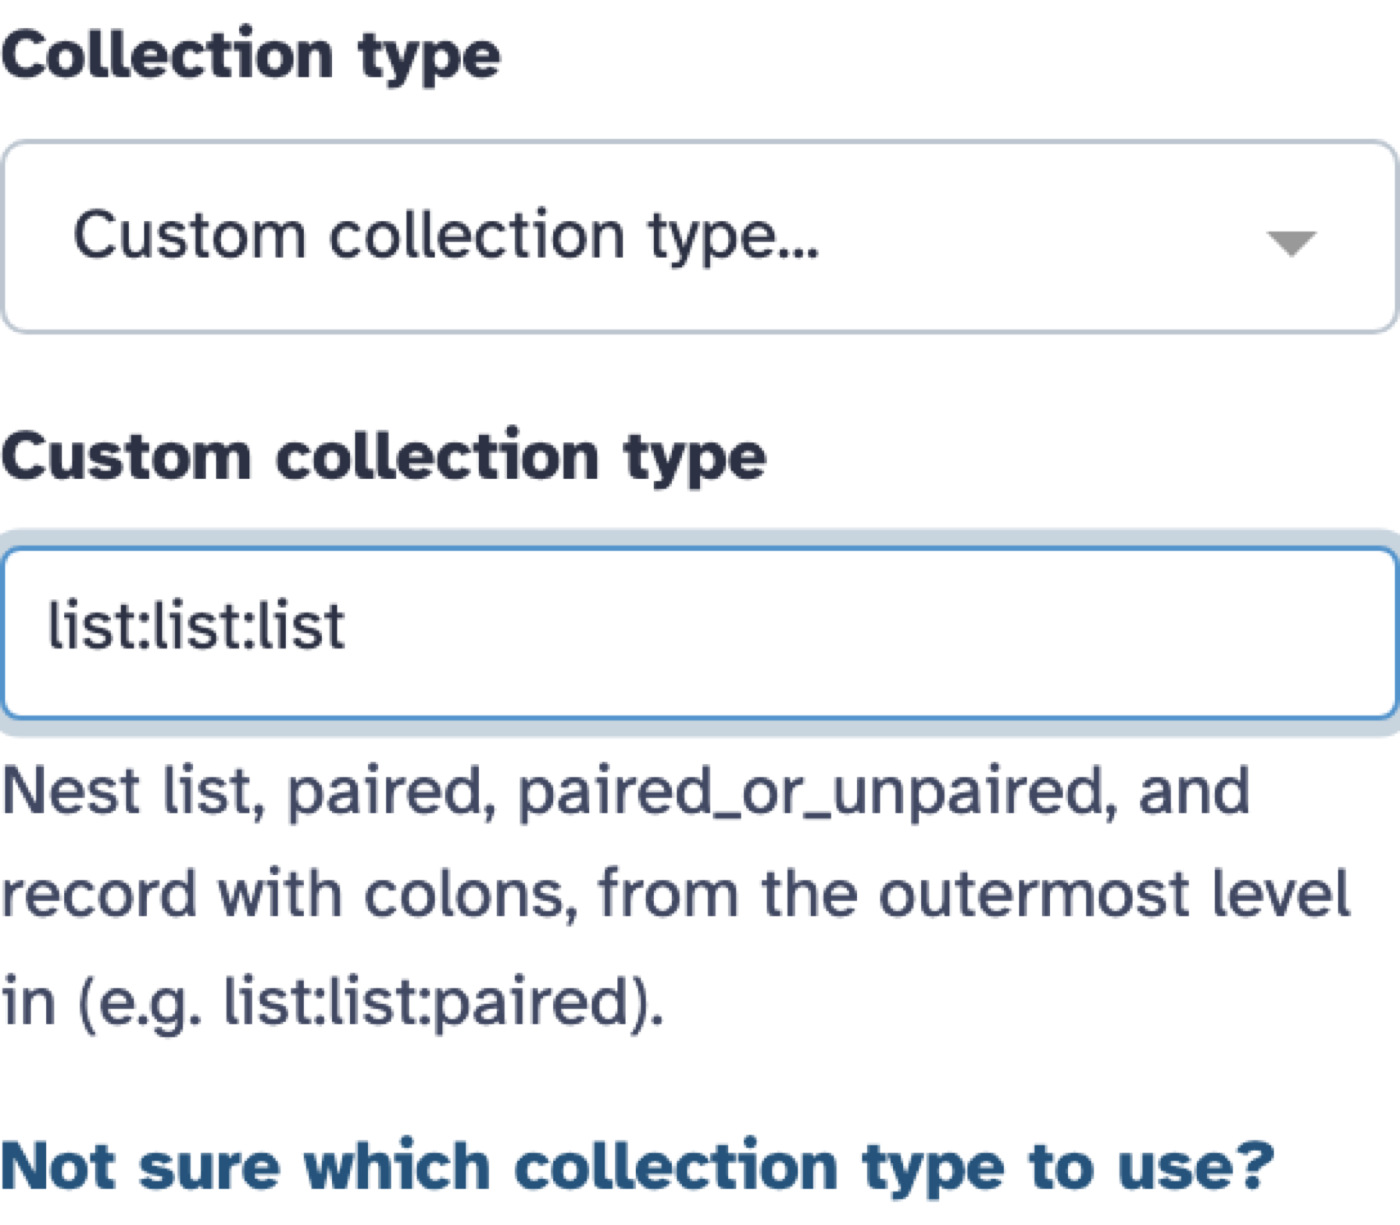
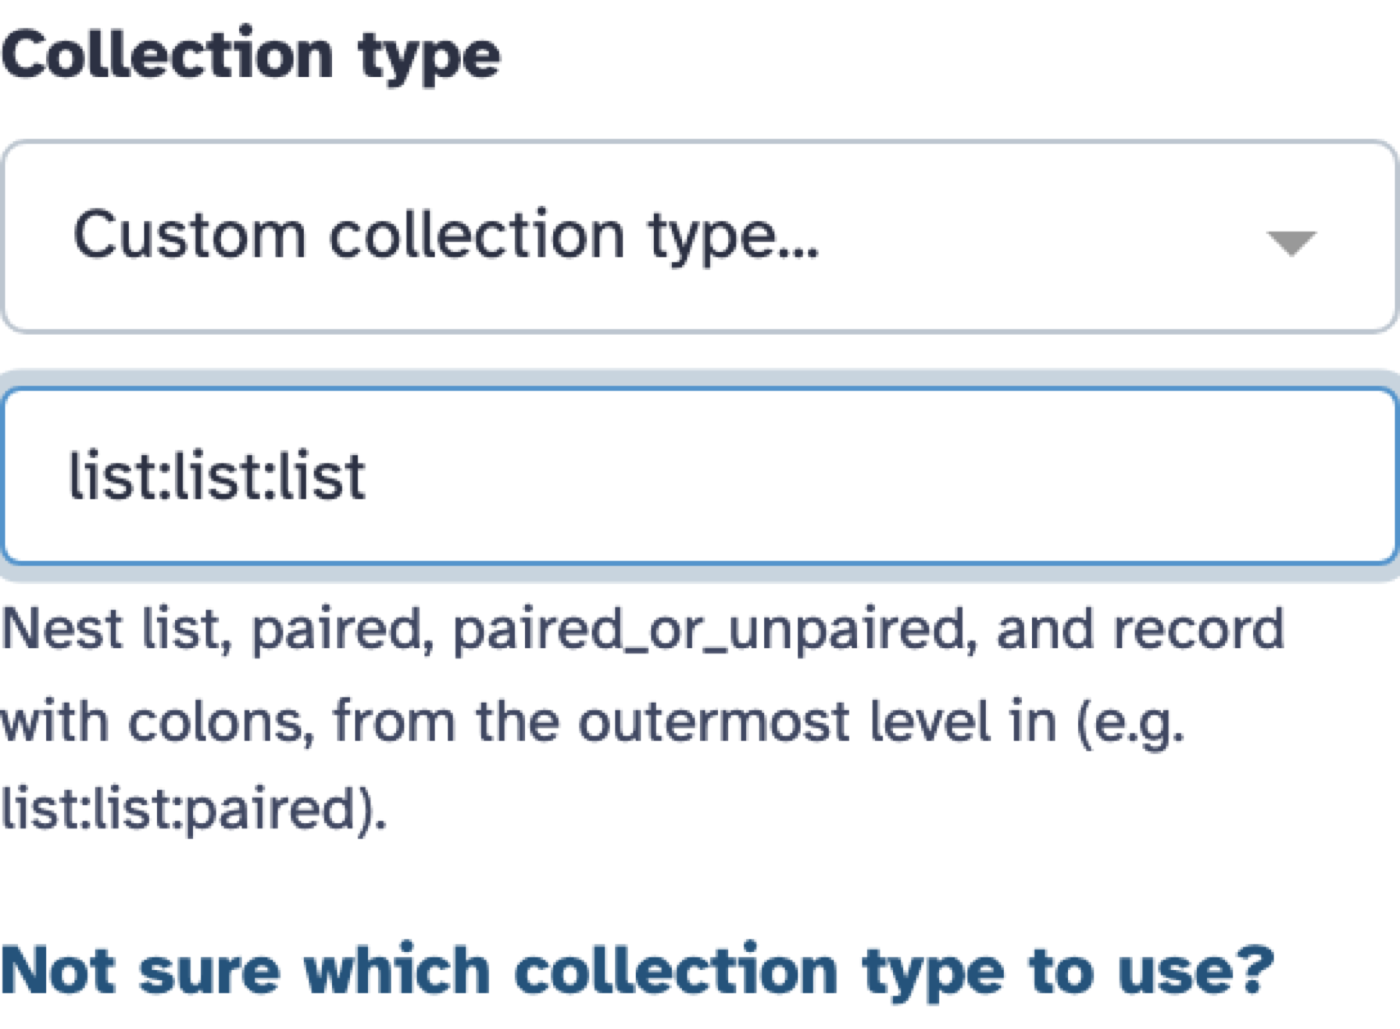
gx_branches: issue_19049_collection_type_picker adds FormSelectOrText (1c87e5c1ebd), ready for final review

Changed region(s): [[0.0, 0.0, 1.0, 0.8397], [0.0, 0.9018, 0.9214, 0.9951]]

diff --git a/vault/agents/gx_branches/branches/issue_19049_collection_type_picker/pr_description.md b/vault/agents/gx_branches/branches/issue_19049_collection_type_picker/pr_description.md
@@ -1,4 +1,4 @@
-Implement 🎯 #19049 - pick a workflow collection input's type from a described select instead of a free-text field.
+Implement 🎯 #19049 - pick a workflow collection input's type from a described select instead of a free-text field, built on a new reusable select-or-text form element.
 
 On `dev` the editor asks for a collection input's type in a text box. Its suggestions are a `datalist`, so they only show up once you start typing something that matches, and nothing on the form says what `list:paired_or_unpaired` or `sample_sheet:record` means or which one fits your data. This branch makes it a select of the known types, with each type's description under it, a custom mode for any other type, and a "Not sure which collection type to use?" dialog that explains them all.
 
@@ -14,38 +14,47 @@ On `dev` the editor asks for a collection input's type in a text box. Its sugges
 | --- | --- |
 | ![An invalid custom type shows an error](screenshots/06_custom_invalid.png) | ![A valid custom type](screenshots/07_custom_valid.png) |
 
-***This is for workflow authors editing a collection input in the editor. Tool XML, the run form, the collection builders and the upload wizards are untouched.***
+The select and custom mode are a new form element, `FormSelectOrText`: the "variant of a GFormInput that can fluidly switch between a text input field and a dropdown selector" suggested in the issue thread. It lists known values in a select and offers an "Other..." entry that switches to a validated text field. It emits only valid values and reports errors through `FormElement`'s alert, and options can carry help text that shows while they're selected. It's available as `FormElement` type `select_or_text`. To prove it's general, the Tool Shed install dialog's "Target Section" field moves onto it too. That field was a text box with a `datalist` of existing sections: "choose an existing tool panel section or create a new section".
+
+***Two forms change: the workflow editor's collection input, and the Tool Shed install dialog's "Target Section". Tool XML, tool forms, the run form, the collection builders and the upload wizards are untouched.***
 
 ***Existing workflows load and run as before, and what a collection input accepts is unchanged. Any type the old field took can still be entered in custom mode, and a saved type the select doesn't list (e.g. `list:list:list`) opens there. The only stored difference: choosing "Any" writes `collection_type: null` where clearing the old field wrote `""`; both mean any collection type.***
 
-***The types, labels and descriptions live in a new registry, `knownCollectionTypes.ts`, meant to become the one place the client describes collection types. The upload wizards' own type cards aren't moved onto it here.***
-
-This follows the design from the issue discussion: a normal select for the well-documented types, a custom mode that falls back to typing, and a dialog modelled on the existing wizard cards. `FormCollectionType` swaps between the select and the text field itself; it doesn't add the general select-or-text input floated in the issue.
+***The collection types, labels and descriptions live in a new registry, `knownCollectionTypes.ts`, meant to become the one place the client describes collection types. The upload wizards' own type cards aren't moved onto it here.***
 
 <details><summary>Implementation</summary>
 
+- `Form/Elements/FormSelectOrText.vue`: a `FormSelect` of the given options plus an "Other..." entry; picking it shows a `BFormInput`.
+  - Props: `options` (`{label, value, help?}`), `otherLabel`, `otherHelp`, `otherPlaceholder` and `validate`, a client-side function returning an error or nothing.
+  - Events: `input`, emitted only for valid values (empty text is never emitted), and `alert`, which is cleared when the element goes away.
+  - A value the options don't list opens the text field. Typing through a listed value (`list` on the way to `list:list`) keeps it open. A value changed from outside, such as a dialog pick or undo, is followed.
+  - A null-valued option is held under an internal value, because `FormSelect` emits `null` for deselecting too; re-clicking the selected option never clears the value.
+- `Form/FormElement.vue`: type `select_or_text` maps the `data`, `other_label`, `other_help`, `other_placeholder` and `validate` attributes and routes `@alert` into the element's alerts.
 - `Collections/common/knownCollectionTypes.ts`: 12 types (the list, pair, record, nested list and sample sheet families), each with a label, a description and a group. Descriptions include the connection rules that surprise people (from `collection_semantics.yml` and `CollectionTypeDescription.accepts`): a `list:paired_or_unpaired` input also takes a plain `list` or a `list:paired`, and a sample sheet can connect to a list input but not the other way round.
 - `Collections/common/CollectionTypeCards.vue`: the grouped card grid used in the dialog. Cards respond to click, Enter and Space, and the current type's card is highlighted.
-- `Workflow/Editor/Forms/FormCollectionType.vue`: the select ("Any collection type", the known types as `Label (type)`, "Custom collection type..."), the validated custom text field and the `GModal` dialog. Typing through a known prefix (`list` on the way to `list:list`) keeps the text field open. An empty or invalid custom value shows an error and isn't saved.
+- `Workflow/Editor/Forms/FormCollectionType.vue`: a `select_or_text` `FormElement` ("Any collection type" plus the known types, each described, then "Custom collection type...") validated with `isValidCollectionTypeStr`, and the `GModal` dialog.
+- `Toolshed/RepositoryDetails/InstallationSettings.vue`: "Target Section" lists "No section" and the existing sections, with "New section..." to type a name. The install request is unchanged (`findSection` still resolves names).
 - Selenium/Playwright tests that set a collection type use `select_set_value` on a new `collection_type_select` selector, replacing `collection_type_input`.
 
 </details>
 
 ## Risks
 
-The labels and descriptions become user-facing guidance that people will learn from and that later work should reuse; everything else is a two-way door.
+`select_or_text` becomes a `FormElement` type other forms will build on, and the collection type descriptions become user-facing guidance; the rest is a two-way door.
 
 <details><summary>Risk Details</summary>
 
+- `FormSelectOrText`'s contract (attribute names, "empty text is never saved", client-side `validate`) will shape the next consumer. Text tool parameters with `<option>` suggestions are the obvious one; they'd also need an optional (clearable) mode, `multiple`/`area` and workflow-run states, which aren't built here.
 - Choosing "Any collection type" now saves `collection_type: null` where clearing the old field saved `""`. The server (`validate_state`, `DataCollectionToolParameter`) and the editor's terminals treat both as "any". gxformat2 export omits a null key where it wrote `collection_type: ''`; both re-import as the default `list`, as on `dev`.
-- The selected type's description shows as help text on every collection input, so wording mistakes are visible.
+- The selected type's description shows on every collection input, so wording mistakes are visible.
 - "Any collection type" is a menu option but still shows the existing "Typically, a value for this collection type should be specified." warning.
+- Tool Shed: picking "New section..." starts from the currently selected section's name; a name matching an existing section installs into it, as the old text box did.
 
 </details>
 
 <details><summary>Risk Review Advice</summary>
 
-Read the descriptions in `knownCollectionTypes.ts` as user documentation: are they accurate, and are the connection rules they state the ones Galaxy enforces? Then check the custom-mode edges in `FormCollectionType.vue`: a saved unknown type, typing through a known prefix, and an empty or invalid custom value.
+Review `FormSelectOrText.vue` as a shared element: is its contract one the next consumer (a text tool parameter with suggestions) could adopt without breaking these two? Then read the descriptions in `knownCollectionTypes.ts` as user documentation: are they accurate, and are the connection rules they state the ones Galaxy enforces?
 
 </details>
 
@@ -56,14 +65,14 @@ Builds on 🔀 #20403 (allow any collection type in this field) and 🔀 #19305 
 ## John's Checklist
 
 - [ ] Did a human read every test and every comment? (Requires human author to check)
-- [x] What does the user see when it fails? An invalid or empty custom type shows an inline error and isn't saved; the step keeps the last valid type entered, which can be a prefix typed on the way (as on `dev`). A saved type the select doesn't list opens in custom mode.
+- [x] What does the user see when it fails? An invalid or empty custom value shows an inline error and a red field and isn't saved; the step keeps the last valid type entered, which can be a prefix typed on the way (as on `dev`). A saved type the select doesn't list opens in custom mode.
 - [x] Is the diff free of unrelated or stale generated changes? Yes!
-- [x] Are unit tests not just testing the literal implementation? Yes. They check what the select renders, what reaches the step's saved state (including "Any" as `null`), what the dialog picks, and that every listed type passes the collection type validator.
+- [x] Are unit tests not just testing the literal implementation? Yes. They click real options and type into the field, and check what's rendered, what's emitted and saved (including "Any" as `null`), the Tool Shed install request, and that every listed collection type passes the validator.
 - [x] Are the comments free of excess archeology? Yes.
 - [x] If comments contain some description of previous implementation, bugs, etc.. - what purpose do they serve? N/A
 - [x] Which existing workflows change behavior (if any)? None. Saving "Any" now stores `null` instead of `""`; both mean any collection type.
-- [x] Who hits this in practice and what is the evidence? Workflow authors defining collection inputs, who get a bare text box (#19049, and the #20403 and #19305 discussions).
-- [x] Were simpler or existing approaches considered? Yes. A plain select would drop types it doesn't list, and keeping the text box with added help would still hide the options. There's no select-or-text component to reuse, and the wizard cards are tied to `GenericWizard`, so the dialog has its own card grid.
+- [x] Who hits this in practice and what is the evidence? Workflow authors defining collection inputs, who get a bare text box (#19049, and the #20403 and #19305 discussions); admins picking a tool panel section when installing from the Tool Shed.
+- [x] Were simpler or existing approaches considered? Yes. A `datalist` hides the options and a plain select drops unlisted values. vue-multiselect's `taggable` mode has no validation hook and `GFormInput` has no invalid state, so `FormSelectOrText` composes `FormSelect` and `BFormInput` like its sibling elements. The wizard cards are tied to `GenericWizard`, so the dialog has its own card grid.
 
 ## How to test the changes?
 - [x] I've included appropriate [automated tests](https://docs.galaxyproject.org/en/latest/dev/writing_tests.html).
@@ -71,10 +80,17 @@ Builds on 🔀 #20403 (allow any collection type in this field) and 🔀 #19305 
 
 <details><summary>Tests and manual steps</summary>
 
-- vitest: `FormCollectionType.test.ts` (known types, "Any", custom mode, unknown saved types, invalid and empty custom values, picking from the dialog), `FormInputCollection.test.ts` ("Any" survives to the saved state as `null`), `CollectionTypeCards.test.ts` and `knownCollectionTypes.test.ts`.
+- vitest:
+  - `FormSelectOrText.test.ts`: listed and unlisted values, picking (including a null option), re-clicking the selected option, typing through a listed value, outside changes and undo/redo, empty and invalid text, option help, alert clearing.
+  - `FormCollectionType.test.ts`: the collection-specific options, descriptions, validation messages and the dialog.
+  - `FormInputCollection.test.ts`: "Any" survives to the saved state as `null`.
+  - `InstallationSettings.test.js`: existing section, new section, no section, empty new section.
+  - `CollectionTypeCards.test.ts` and `knownCollectionTypes.test.ts`.
 - `test_workflow_editor.py::test_collection_input_sample_sheet_chipseq_example` sets the type through the new select and asserts the saved type is `sample_sheet:paired`. The two chipseq tests in `test_workflow_run.py` set it the same way.
 
-Manually: open the workflow editor, add an "Input Dataset Collection", and try the select, the "Not sure which collection type to use?" dialog and "Custom collection type...".
+Manually:
+- Open the workflow editor, add an "Input Dataset Collection", and try the select, the "Not sure which collection type to use?" dialog and "Custom collection type...".
+- As an admin, install a repository from the Tool Shed and try "Target Section".
 
 </details>
 

diff --git a/vault/agents/gx_branches/branches/issue_19049_collection_type_picker/polish_debrief.md b/vault/agents/gx_branches/branches/issue_19049_collection_type_picker/polish_debrief.md
@@ -1,6 +1,6 @@
 # issue_19049_collection_type_picker: polish debrief
 
-Polished 2026-10-06. Branch now `abde3641309` (polish commit on `d2430ae96e9`, off dev `4fe00d9e7ab`).
+Polished 2026-10-06, then reopened the same night to build the general select-or-text element. Branch now `1c87e5c1ebd` (off dev `4fe00d9e7ab`): `d2430ae96e9` implementation, `abde3641309` polish tests/copy, `046ad1f9c4e` `FormSelectOrText`, `1c87e5c1ebd` review fixes.
 
 ## CI
 
@@ -13,7 +13,7 @@ No failures. Gaps the checklist subagent raised, all fixed in `abde3641309`:
 - Nothing tested that "Any" reaches the step's saved state as `null`. New `FormInputCollection.test.ts` case, red-checked: emitting `undefined` instead fails at the `collection_type` assertion.
 - Nothing tied the registry to the validator. New `knownCollectionTypes.test.ts`.
 - Card Enter/Space untested. New `CollectionTypeCards.test.ts`.
-- `FormSelect` auto-selects its first option when the value is null and that option is truthy, so "Any" (null) must stay first. Added a comment.
+- `FormSelect` auto-selects its first option when the value is null and that option is truthy, so "Any" (null) must stay first. Added a comment (superseded in round 2: `FormSelectOrText` passes `optional`, so nothing is auto-selected).
 
 ## Strengthening round
 
@@ -31,6 +31,34 @@ Not acted on:
 ## Questions for John
 
 - Keep "Any collection type" as a top-level option (with the existing warning), or move it behind custom mode?
-- Build the general select-or-text input the issue floated, or leave it? The description says it isn't added here.
 - Custom mode is a bare validated text field; your issue comment said "allow it to become the datalist". Add the known types as a datalist there?
+- Move text tool parameters with `<option>` suggestions onto `FormSelectOrText` in a follow-up PR (needs an optional mode first)?
 - Follow-ups: move the upload wizards' type cards onto `knownCollectionTypes.ts` / `CollectionTypeCards` (card CSS now in three copies), build `COLLECTION_TYPE_TO_LABEL` from the registry, per-type tree diagrams (gx-collection-graphviz).
+
+## Round 2: `FormSelectOrText` (John: "yeah - I guess this task wasn't really done")
+
+The issue thread asked for a reusable input that switches between a dropdown and text; round 1 had inlined that in `FormCollectionType`.
+
+- `046ad1f9c4e`: new `Form/Elements/FormSelectOrText.vue` and `FormElement` type `select_or_text`. `FormCollectionType` is rebuilt on it (mode logic moved into the element), and the Tool Shed install "Target Section" (was `BFormInput` + `datalist`) is a second consumer.
+  - The first screenshot pass showed the saved type's description under an invalid custom value. Fixed by giving options a `help` field that the element shows only while that option is selected.
+- A review subagent on `046ad1f9c4e` found three real bugs, each reproduced red first and then fixed in `1c87e5c1ebd`:
+  - Re-clicking the selected option cleared the value. `optional` turns on vue-multiselect `allow-empty`, which emits `null` on a deselect, the same value the "Any" option emits. The null option now sits behind a sentinel, and a `null` from `FormSelect` is ignored.
+  - Undo/redo back to typed text was swallowed by a `lastEmitted` echo guard. It is now guarded on `otherMode && value === text`.
+  - The alert was stale after unmount. It is now cleared in `onBeforeUnmount`.
+- Also from that review:
+  - `placeholder` is renamed `otherPlaceholder`, and the text field gets an `aria-label`.
+  - The Tool Shed shows the empty "New section..." message through `BFormGroup` invalid-feedback.
+  - Tests click real options by label instead of emitting `__other__`.
+- Verification:
+  - vitest: 696 across Form, Workflow/Editor, Collections/common, Toolshed, Tool. `vue-tsc` and eslint are clean.
+  - Playwright E2E, against this worktree's own Galaxy on 8083 (config bind restored to 8081 afterwards): `test_collection_input_sample_sheet_chipseq_example` and `test_workflow_run.py::test_collection_input_sample_sheet_chipseq_example_from_uris` both pass.
+  - Earlier, the first E2E and two screenshot passes went through Vite to *another session's* Galaxy on 8081 (`issue_21015_multiple_text_param`; mine failed to bind). The client under test was this branch's, but test users and an editor session were written into that Galaxy's database.
+- Consumer survey from the review:
+  - **Later:** text tool parameters with `<option>` suggestions (`FormText` + `datalist`, and workflow text-parameter `suggestions`). They need optional/clearable values, `multiple`, `area`, workflow-run states and connected values first.
+  - **Not a fit:** `FormOptionalText` (its datalist is effectively unused), the filter-menu datalists and ToolOntologies (search boxes), and FilterMenuDropdown (already a closed select).
+
+Deferred (design points from the review):
+
+- No optional/clearable mode: empty text is never emitted. The next consumer, optional text parameters, needs it.
+- Typing an unlisted value into the select's search box dead-ends with "No elements found". The search could seed Other mode, or "Other..." could be pinned.
+- Picking "Other..." prefills the current value. That helps collection types (`list` to `list:list`), but for the Tool Shed it prefills an existing section's name.

diff --git a/vault/agents/gx_branches/MY_BRANCHES.md b/vault/agents/gx_branches/MY_BRANCHES.md
@@ -68,7 +68,7 @@ None yet.
 
 ## Galaxy branches — needs polish (`branches_need_polish`)
 
-- Branch `issue_19049_collection_type_picker` (`046ad1f9c4e`, off dev, fixes [#19049](https://github.com/galaxyproject/galaxy/issues/19049)) — Description: Adds a reusable `FormSelectOrText` element (select known values or type another) and builds the workflow editor's described collection type picker and the Tool Shed target section on it; blockers: re-polishing after adding `FormSelectOrText` (review, description refresh); fork CI on `046ad1f9c4e`. [Description](branches/issue_19049_collection_type_picker/pr_description.md), [polish debrief](branches/issue_19049_collection_type_picker/polish_debrief.md). [Open PR](https://github.com/galaxyproject/galaxy/compare/dev...jmchilton:galaxy:issue_19049_collection_type_picker?expand=1).
+None yet.
 
 ## Galaxy branches — ready for final review (`branches_ready_for_final_review`)
 
@@ -82,6 +82,7 @@ None yet.
 - Branch `cap_social_auth_core_dev` (`d93a599af56`; targets `dev`) — Description: Merges `release_26.1` + the `social-auth-core<6` cap forward into dev (cap moved to `packages/data/pyproject.toml`); blockers: fork CI on `d93a599af56`; John's read-through incl. the human-read item; still needed (dev has no cap as of 2026-10-06 evening). [Description](branches/cap_social_auth_core_dev/pr_description.md), [titles](branches/cap_social_auth_core_dev/pr_titles.md). [Open PR](https://github.com/galaxyproject/galaxy/compare/dev...jmchilton:galaxy:cap_social_auth_core_dev?expand=1).
 - Branch `it_container_epilog_docs` (`f0811cce6a4`, off dev) — Description: Docs-only: InteractiveTools admin docs gain a Slurm epilog that kills IT containers left running after their job (#13511); blockers: John's read-through; fork Build docs on `f0811cce6a4` queued; generic `drmaa` runner cleanup race unverified (see polish debrief); [description](branches/it_container_epilog_docs/pr_description.md), [titles](branches/it_container_epilog_docs/pr_titles.md), [polish debrief](branches/it_container_epilog_docs/polish_debrief.md). [Open PR](https://github.com/galaxyproject/galaxy/compare/dev...jmchilton:galaxy:it_container_epilog_docs?expand=1).
 - Branch `issue_23891_output_reference_resolver` (`ca3890d94e0`) — Description: Resolves `format_source`/`metadata_source` against declared inputs at tool load (fixes #23891): internal keys dropped, legacy-alias collision fixed, 26.2 load error; blockers: John's read-through; fork CI on `ca3890d94e0` pending (`type_source` check moved onto the shared resolver after polish); open question (lint `metadata_source`) in polish debrief; [PR description](branches/issue_23891_output_reference_resolver/pr_description.md), [titles](branches/issue_23891_output_reference_resolver/pr_titles.md), [polish debrief](branches/issue_23891_output_reference_resolver/polish_debrief.md). [Open PR](https://github.com/galaxyproject/galaxy/compare/dev...jmchilton:galaxy:issue_23891_output_reference_resolver?expand=1).
+- Branch `issue_19049_collection_type_picker` (`1c87e5c1ebd`, off dev, fixes [#19049](https://github.com/galaxyproject/galaxy/issues/19049)) — Description: Adds a reusable `FormSelectOrText` element (select known values or type another) and builds the editor's described collection type picker and the Tool Shed target section on it; blockers: fork CI on `1c87e5c1ebd`; John's read-through incl. the human-read item, UX/scope questions in the polish debrief, and dragging `screenshots/` into the PR body. [Description](branches/issue_19049_collection_type_picker/pr_description.md), [titles](branches/issue_19049_collection_type_picker/pr_titles.md), [polish debrief](branches/issue_19049_collection_type_picker/polish_debrief.md), [implementation debrief](branches/issue_19049_collection_type_picker/implementation_debrief.md). [Open PR](https://github.com/galaxyproject/galaxy/compare/dev...jmchilton:galaxy:issue_19049_collection_type_picker?expand=1).
 
 ## Galaxy branches — approved, opens when green (`branches_need_pr`)
 

diff --git a/vault/agents/gx_branches/branches/issue_19049_collection_type_picker/pr_titles.md b/vault/agents/gx_branches/branches/issue_19049_collection_type_picker/pr_titles.md
@@ -1,5 +1,5 @@
-- Pick workflow collection input types from a described select
+- Pick workflow collection input types from a described select, via a reusable select-or-text form element
+- Add FormSelectOrText and use it for workflow collection input types and Tool Shed target sections
 - Replace the free-text collection type field in the workflow editor with a described picker
 - Workflow editor: select collection input types, with descriptions and a "which type?" dialog
 - Explain collection types when defining workflow collection inputs
-- Add a described collection type picker to workflow collection inputs
